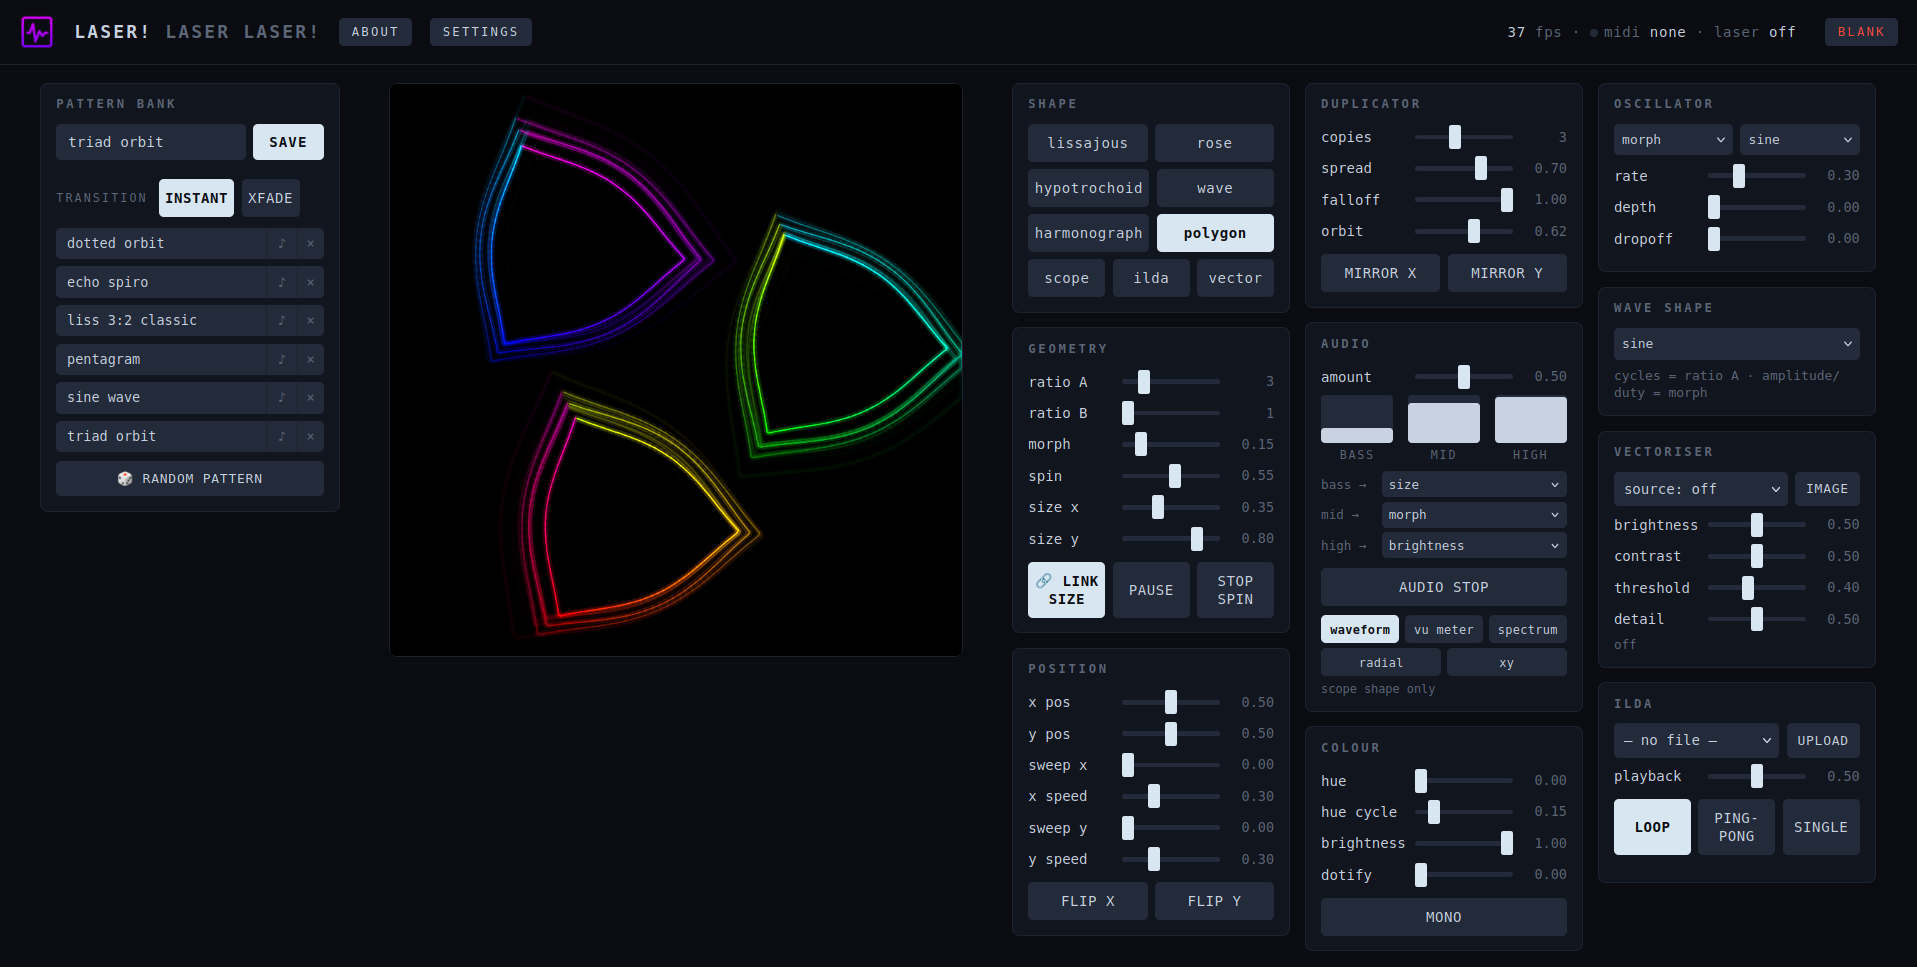
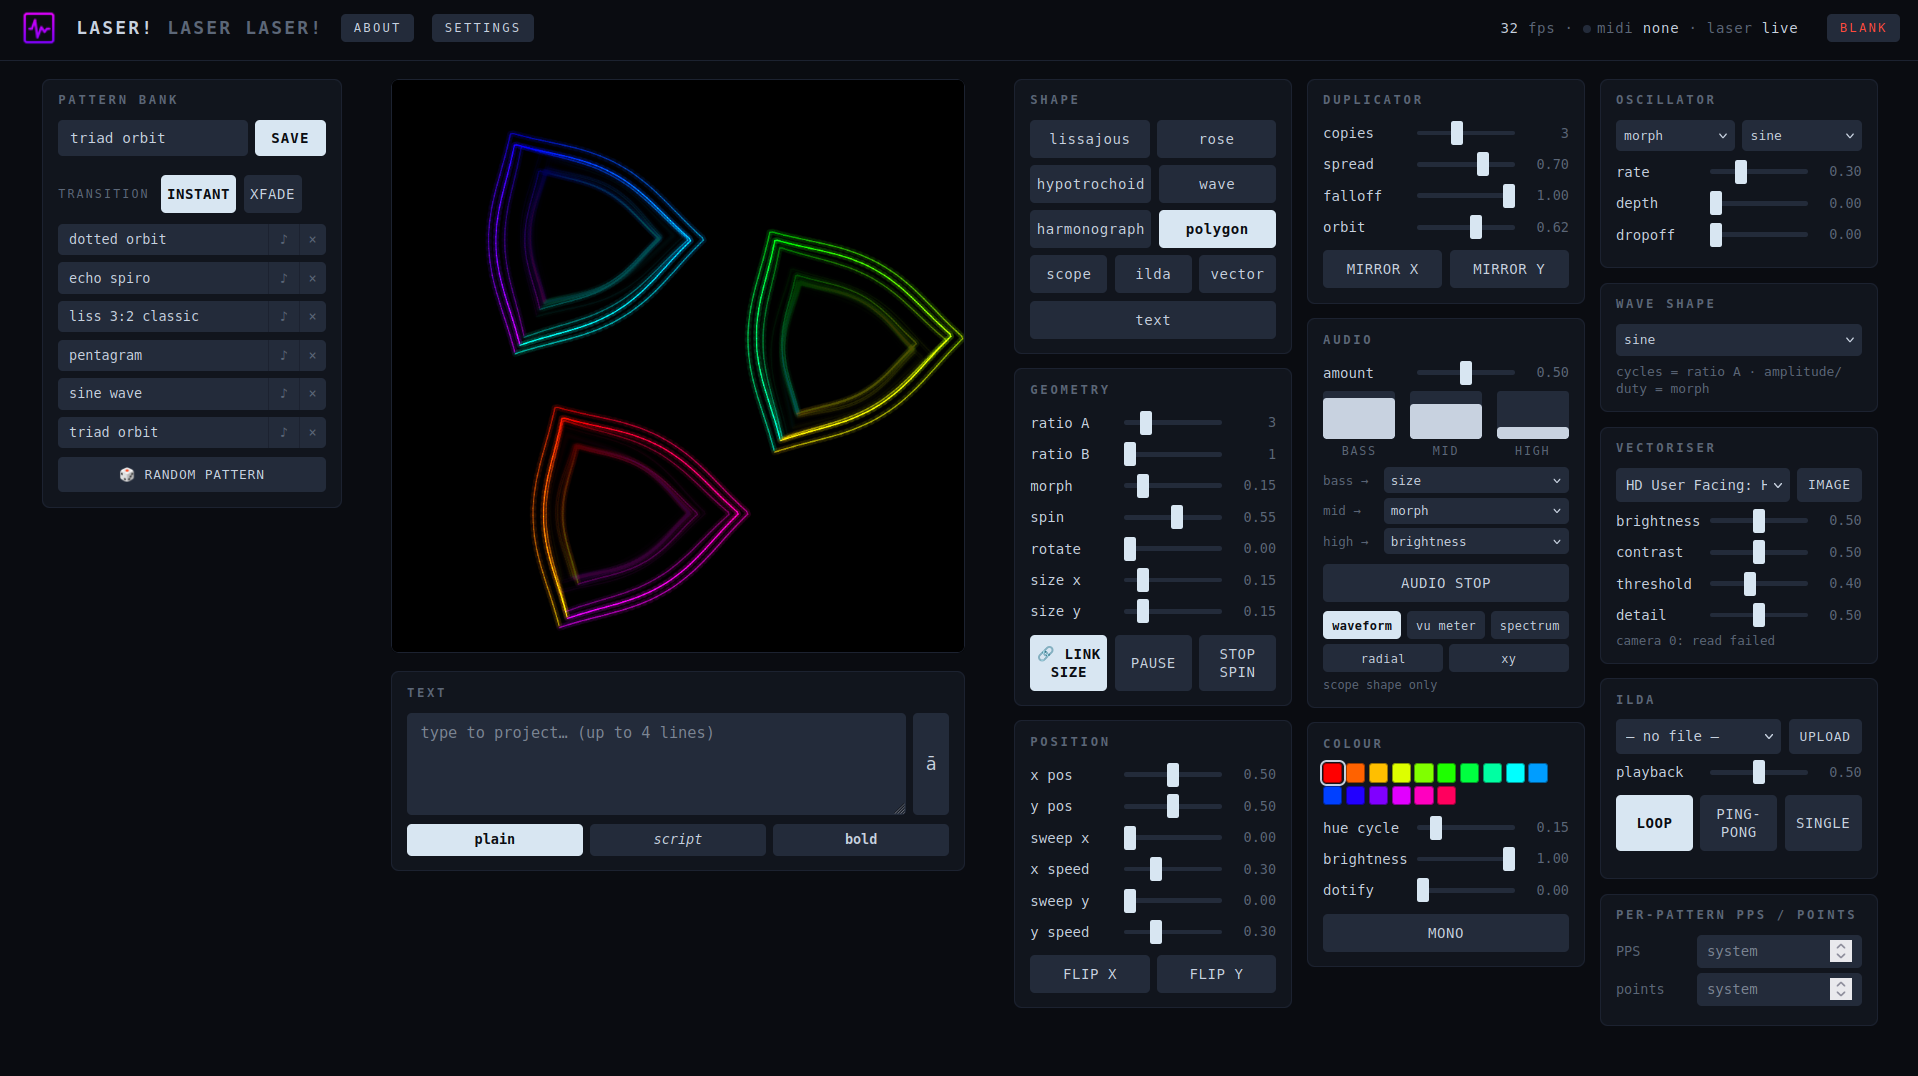
Misc updates

Changed region(s): [[0.1847, 0.0, 0.9849, 0.9928], [0.0, 0.0, 0.277, 0.5274], [0.9541, 0.0, 1.0, 0.062]]

diff --git a/about.md b/about.md
@@ -1,5 +1,5 @@
 # Laser! Laser Laser!
-v1.1.0
+v1.2.0
 A realtime laser visuals synthesizer for the Helios DAC.
 
 Created using Claude.AI, but with a human in the loop orchestrating features, bugs and UX.